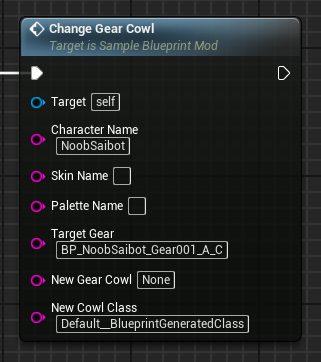
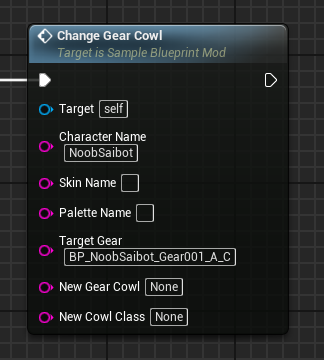
Updated override mats events and added UBL guide for modders

diff --git a/docs/ubl/ubl-usage-guide.md b/docs/ubl/ubl-usage-guide.md
@@ -1,0 +1,77 @@
+# 🔷 Using UBL in Your Mod
+
+This guide explains how to **integrate the UBL framework** into your Unreal Engine mod.
+
+---
+
+## 📥 **1. Download the UBLSampleProject**
+To begin integrating **UBL** into your mod, **download the UBLSampleProject** from **[GitHub](https://github.com/MK1-Modding/SampleUBLProject)**.  
+This project contains **pre-made UBL events**, making it easy to start modding.
+
+### 🔹 **Tip:** Adding UBL to an Existing Project
+If you're adding UBL to an existing **Unreal Engine project**, simply **copy** the following folder into your project's `Content` directory:
+
+``
+Content/CustomBlueprint
+``
+
+This folder contains a **sample mod actor blueprint** that already supports UBL events.
+
+---
+
+## 🎮 **2. Open the UBL Sample Blueprint**
+1. **Open your Unreal Engine project.**
+2. **Navigate to the** `Content/CustomBlueprint` **folder**.
+3. Locate the **SampleBlueprintMod** actor blueprint—this is where all UBL logic happens.
+
+📌 **This blueprint will handle all UBL events used in your mod.**
+
+---
+
+## 🛠 **3. Understanding the Sample Blueprint**
+The sample blueprint contains an example usage of the **ChangeFace** event.
+
+🔗 **For a full list of UBL events and how to use them, check the** [Events Overview](events/events-overview.md) **section.**
+
+---
+
+## 🎯 **4. Adding UBL Events to Your Mod**
+To add a new UBL event in your mod:
+
+1. Open `SampleBlueprintMod`.
+2. **Find the `Event BeginPlay` node.**  
+   - If you **have no events yet**, drag off from the **`exec` pin** of `Event BeginPlay`.
+   - If you **already have an event**, drag off from its output pin.
+3. **Search for the event you want to add** and create it.
+4. **Connect it to your event chain.**
+
+📌 **UBL events should be called in a sequence, forming an event chain.**  
+
+---
+
+## 💾 **5. Saving & Compiling the Blueprint**
+Once you're done adding UBL events:
+
+1. **Click the "Compile" button** (top-left of the blueprint editor) to save changes.
+2. **Ensure the blueprint is named correctly:**
+   - **Your blueprint name must match your mod's `.pak`, `.ucas`, and `.utoc` file names.**
+   - Example: If your mod files are named:
+     ```
+     MyCustomBlueprint.pak
+     MyCustomBlueprint.ucas
+     MyCustomBlueprint.utoc
+     ```
+     Then your blueprint **inside `CustomBlueprint/` must also be named**:
+     ```
+     MyCustomBlueprint
+     ```
+
+🚨 **If the names do not match, UBL will fail to load your mod!**
+
+---
+
+## ✅ **Next Steps**
+- **Test your mod** in-game to ensure UBL events function properly.
+- **Refer to the** [Events Overview](events/events-overview.md) and the events sidebar **for additional UBL events.**
+
+---

diff --git a/docs/ubl/events/Gear/ChangeGearMask/ChangeGearMask.md b/docs/ubl/events/Gear/ChangeGearMask/ChangeGearMask.md
@@ -12,7 +12,7 @@ This event replaces the target character's 'mask' (wether it'd be their gear pie
 | **`Palette Name` (Optional)** | `FString` | The name of the palette you are targeting |
 | **`Target Gear`** | `FString` | The **blueprint** name of the targeted gear |
 | **`New Gear Mask`** | `FString` | The **blueprint** name of the new 'gear mask' class. This blueprint class typically ends with the '_Mask' extension. A value of 'None' will set this gear to nothing. |
-| **`New Mask Class`** | `FString` | The **blueprint** name of the new 'mask' class. A value of 'Default__BlueprintGeneratedClass' can be used as a placeholder to set this class to nothing (useful for removing the mask entirely) |
+| **`New Mask Class`** | `FString` | The **blueprint** name of the new 'mask' class. A value of 'None' will set this class to nothing (useful for removing the mask entirely) |
 
 !!! note "Gear mask and mask class"
 	These two are distinctilly different assets! The mask class only needs to be changed for characters for whom their gear is not their mask! Otherwise, this should only be changed if you want to completely remove the mask!

diff --git a/docs/ubl/events/Gear/ChangeGearCowl/ChangeGearCowl.md b/docs/ubl/events/Gear/ChangeGearCowl/ChangeGearCowl.md
@@ -14,7 +14,7 @@ This event replaces the target character's 'cowl gear piece' with the provided o
 | **`Palette Name` (Optional)** | `FString` | The name of the palette you are targeting |
 | **`Target Gear`** | `FString` | The **blueprint** name of the targeted gear |
 | **`New Gear Cowl`** | `FString` | The **blueprint** name of the new 'gear cowl' class. This blueprint class typically ends with the '_Cowl' extension. A value of 'None' will set this gear to nothing |
-| **`New Cowl Class`** | `FString` | The **blueprint** name of the new 'cowl' class. A value of 'Default__BlueprintGeneratedClass' can be used as a placeholder to set this class to nothing (useful for removing the cowl entirely) |
+| **`New Cowl Class`** | `FString` | The **blueprint** name of the new 'cowl' class. A value of 'None' will set this class to nothing (useful for removing the cowl entirely) |
 
 !!! note "Gear cowl and cowl class"
 	These two are distinctilly different assets! The cowl class only needs to be changed if you want to completely remove the cowl!

diff --git a/docs/ubl/ubl-overview.md b/docs/ubl/ubl-overview.md
@@ -29,8 +29,7 @@ Future updates will expand UBL’s capabilities, making it even more powerful fo
 
 ### 📌 **For Modders: Using UBL**  
 UBL provides a framework for **modders to integrate custom events into their mods**.  
-📌 **Refer to the sidebar** to browse individual event documentation and usage examples.  
 
-🔗 **[Using UBL with Your Mods](using-ubl.md)** – A beginner's guide for integrating UBL into your mods.
+🔗 **[Using UBL with Your Mods](ubl-usage-guide.md)** – A beginner's guide for integrating UBL into your mods.
 
 ---

diff --git a/docs/index.md b/docs/index.md
@@ -6,9 +6,10 @@ This site provides comprehensive documentation on modding Mortal Kombat 1, from 
 New to MK1 modding? Start here:
 
 - [Introduction to Modding](getting-started/introduction.md) (WIP)
-- [UBL Installation Guide](getting-started/installation.md) (WIP)
+- [UBL Installation Guide](ubl/ubl-install-guide.md)
 
 ## ⚡ Advanced Modding
 For experienced modders looking to enhance their mods:
 
 - [UBL Framework Overview](ubl/ubl-overview.md)
+- [Using UBL in your own mods](ubl/ubl-usage-guide.md)

diff --git a/docs/ubl/events/events-overview.md b/docs/ubl/events/events-overview.md
@@ -11,7 +11,7 @@ UBL Events allow modders to interact with the game’s mechanics **without modif
 
 ## 📖 **UBL Event Format & Usage**
 
-All UBL Events in this documentation follow a **standardized format** to ensure consistency and ease of use.
+All UBL Events in this documentation follow a **standardized format** to ensure consistency.
 
 📌 **How to Navigate:**  
 - **Refer to the sidebar** to browse individual event documentation and usage examples.  
